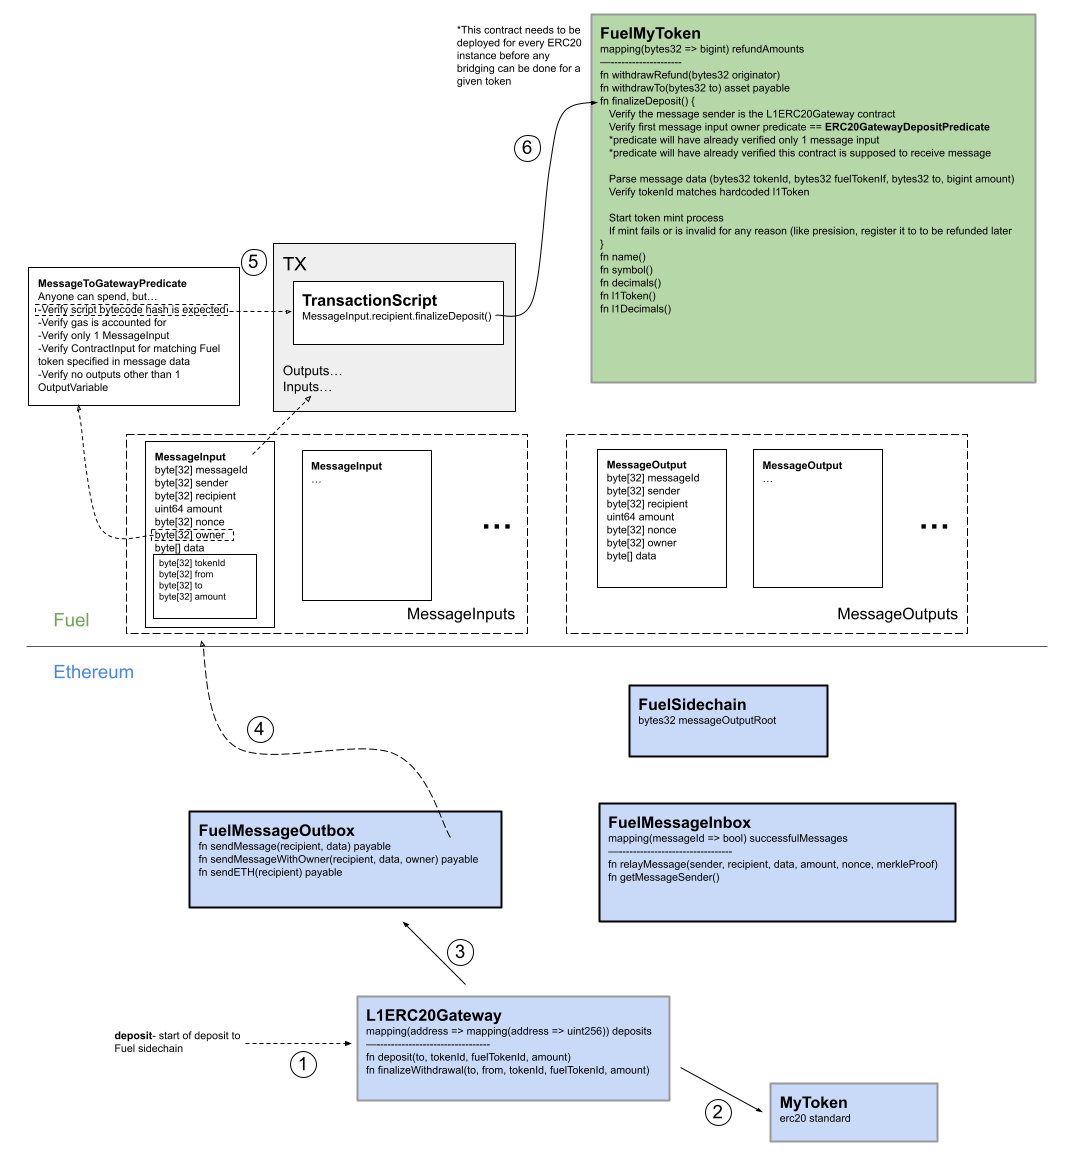
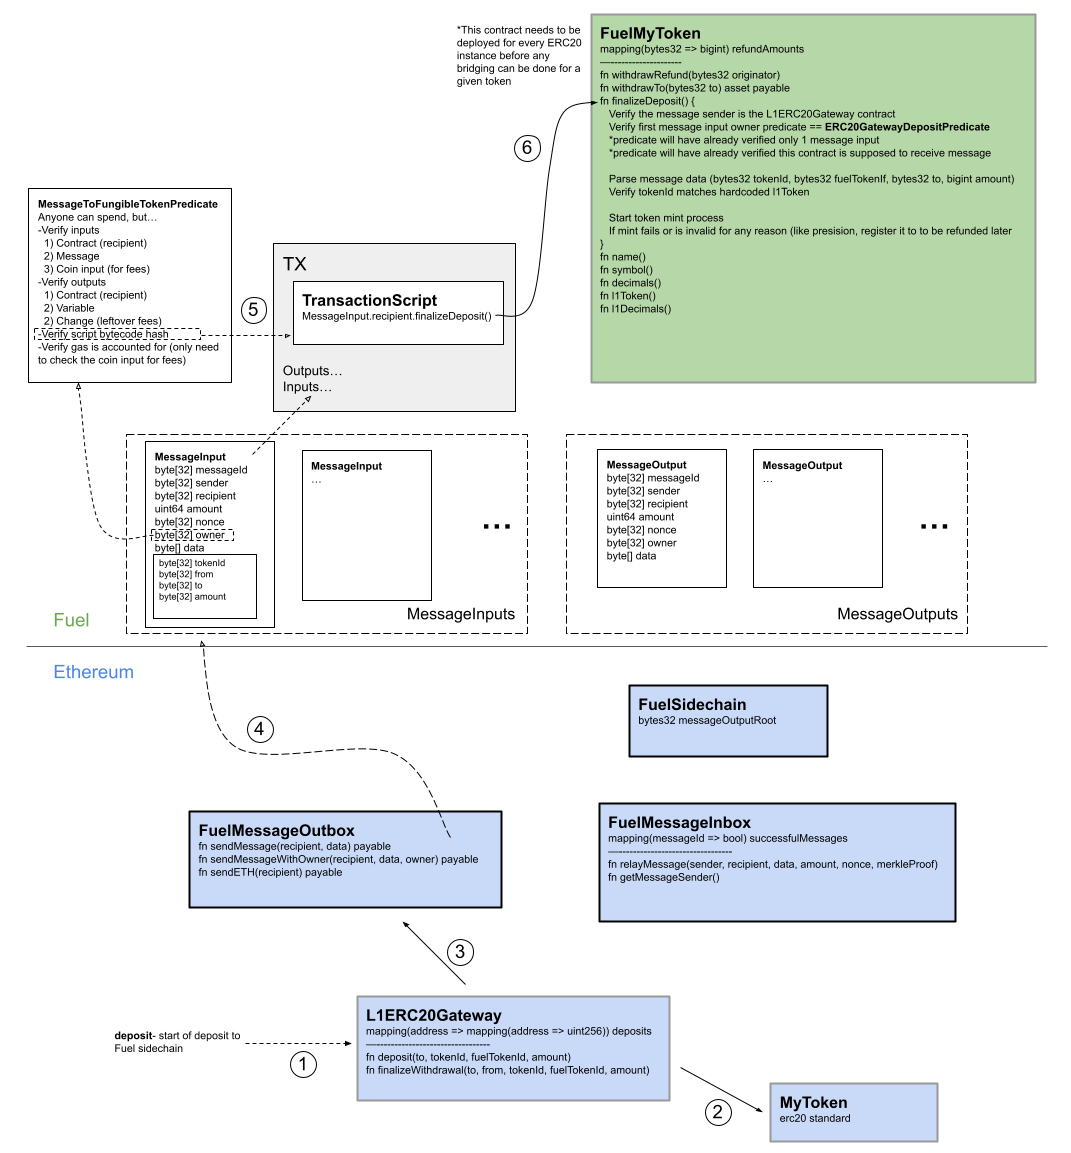
Added docs for retryable messages (#11)
* Added docs for retryable messages

* PR feedback changes

Changed region(s): [[0.0308, 0.1561, 0.2465, 0.3747]]

diff --git a/docs/design_docs.md b/docs/design_docs.md
@@ -6,6 +6,7 @@
 - [ERC-20 Bridge](#ERC-20-bridge)
   - [ERC-20 Bridge Deposit](#ERC-20-bridge-deposit)
   - [ERC-20 Bridge Withdrawal](#ERC-20-bridge-withdrawal)
+- [Retryable Messages](#Retryable-Messages)
 
 This document defines the high level bridge implementation.
 
@@ -38,9 +39,9 @@ The ERC-20 bridge facilitates the transfer of ERC-20 tokens from Ethereum to be 
 
 1. User starts a deposit by calling deposit (has already approved token transfer to `L1ERC20Gateway`)
 1. `L1ERC20Gateway` transfers tokens to itself to custody while bridged
-1. `L1ERC20Gateway` creates a message in the `FuelMessageOutbox` to be relayed on Fuel with the `ERC20GatewayDepositPredicate` so that anyone can spend the `MessageInput` on a user's behalf but with guarantees that the tx is built as it’s supposed to
+1. `L1ERC20Gateway` creates a message in the `FuelMessageOutbox` to be relayed on Fuel with the `MessageToFungibleTokenPredicate` so that anyone can spend the `MessageInput` on a user's behalf but with guarantees that the transaction is built as it’s supposed to
 1. Client sees the message on L1 via event logs
-1. A TX is built and submitted by either the user or some relayer that meets the requirements of the `ERC20GatewayDepositPredicate`
+1. A transaction is built and submitted by either the user or some relayer that meets the requirements of the `MessageToFungibleTokenPredicate`
 1. A single call is made from the transaction script to the intended recipient Fuel token contract. This function verifies the sender and predicate owner of the `InputMessage`, parses the data from the `InputMessage` data field and mints the appropriate amount of tokens
 
 ![ERC20 Deposit Diagram](/docs/imgs/FuelMessagingERC20Deposit.png)
@@ -55,3 +56,15 @@ The ERC-20 bridge facilitates the transfer of ERC-20 tokens from Ethereum to be 
 1. The `L1ERC20Gateway` verifies it’s being called by the `FuelMessageInbox` and releases the specified amount of tokens to the specified address
 
 ![ERC20 Withdrawal Diagram](/docs/imgs/FuelMessagingERC20Withdraw.png)
+
+## Retryable Messages
+
+In order to prevent messages getting lost during generic messaging from L1 to Fuel, developers should follow the following standard practice utilizing common libraries.
+
+1. Either a contract or EOA calls `sendMessage` on the `FuelMessageOutbox` that creates a message to be relayed on Fuel with the `MessageToContractPredicate` so that anyone can spend the `MessageInput` on a user's behalf but with guarantees that the transaction is built as it’s supposed to
+1. Client sees the message on L1 via event logs
+1. A transaction is built and submitted by either the user or some relayer that meets the requirements of the `MessageToContractPredicate`
+1. The transaction script sends any amount on the message to the recipient contract and calls `processMessage` on the recipient Fuel token contract
+1. This contract extends the standard `MessageRetryable` code which checks if the transaction includes the appropriate variable outputs otherwise the `messageId` gets placed in storage to be retried in a later transaction
+
+![Retryable Messages Diagram](/docs/imgs/FuelMessagingRetryableMessages.png)
